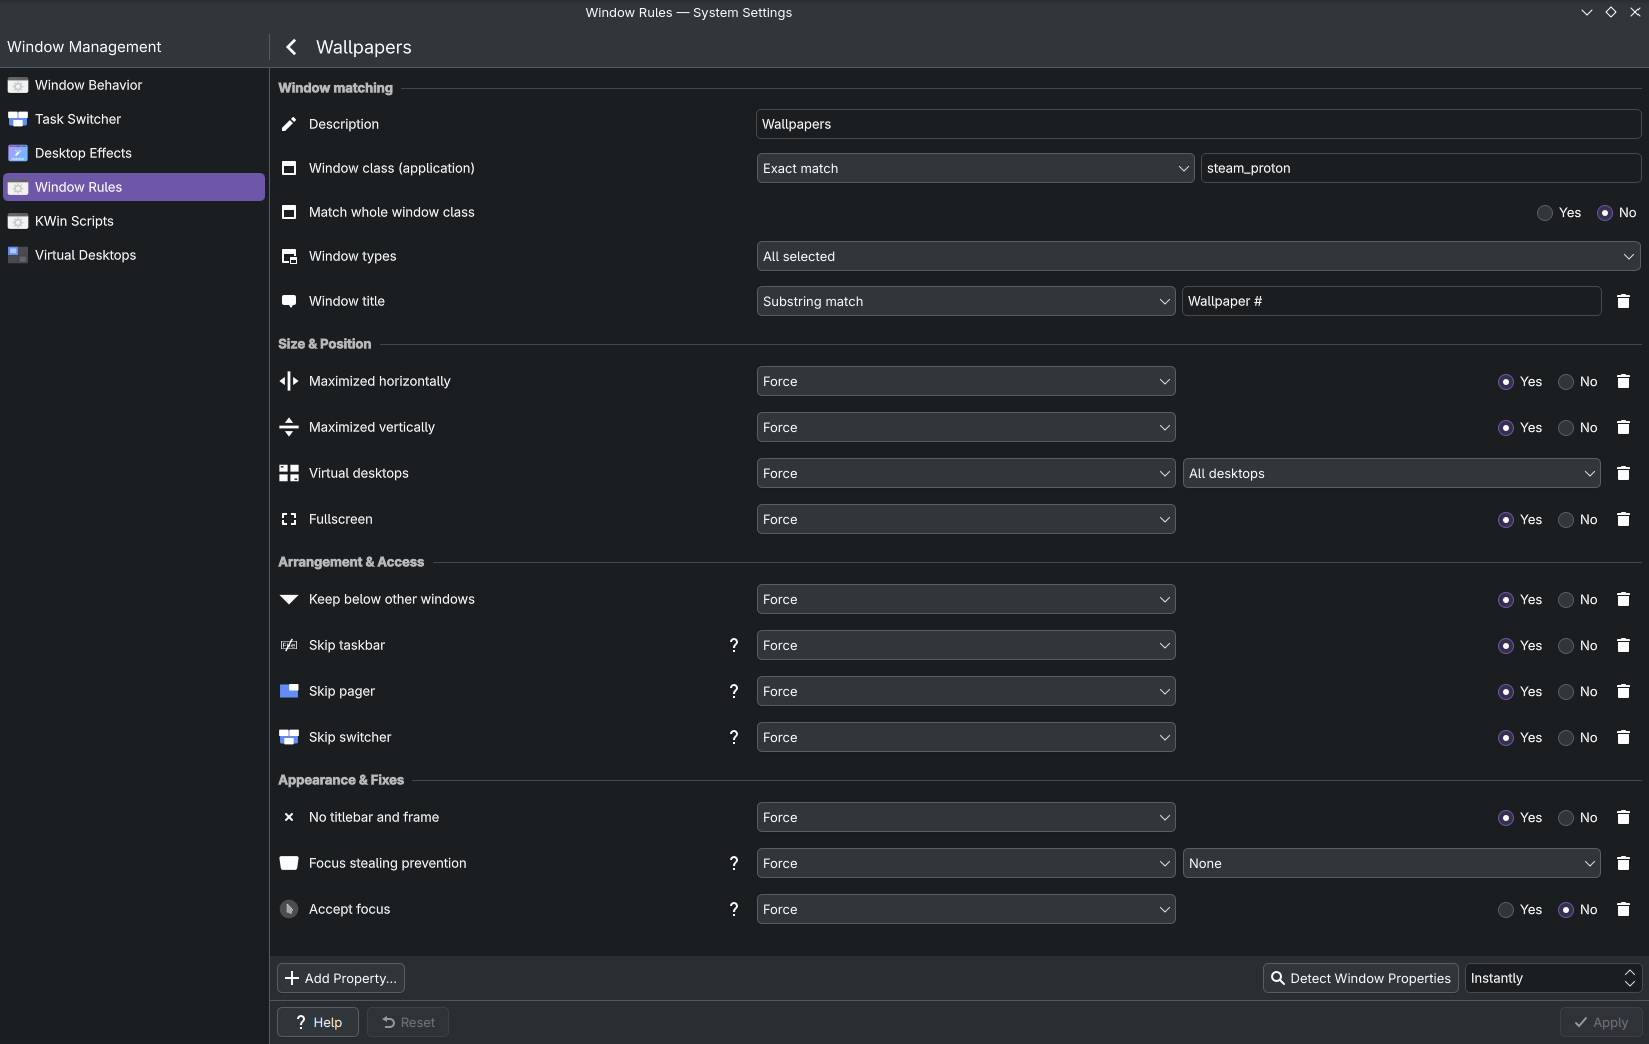
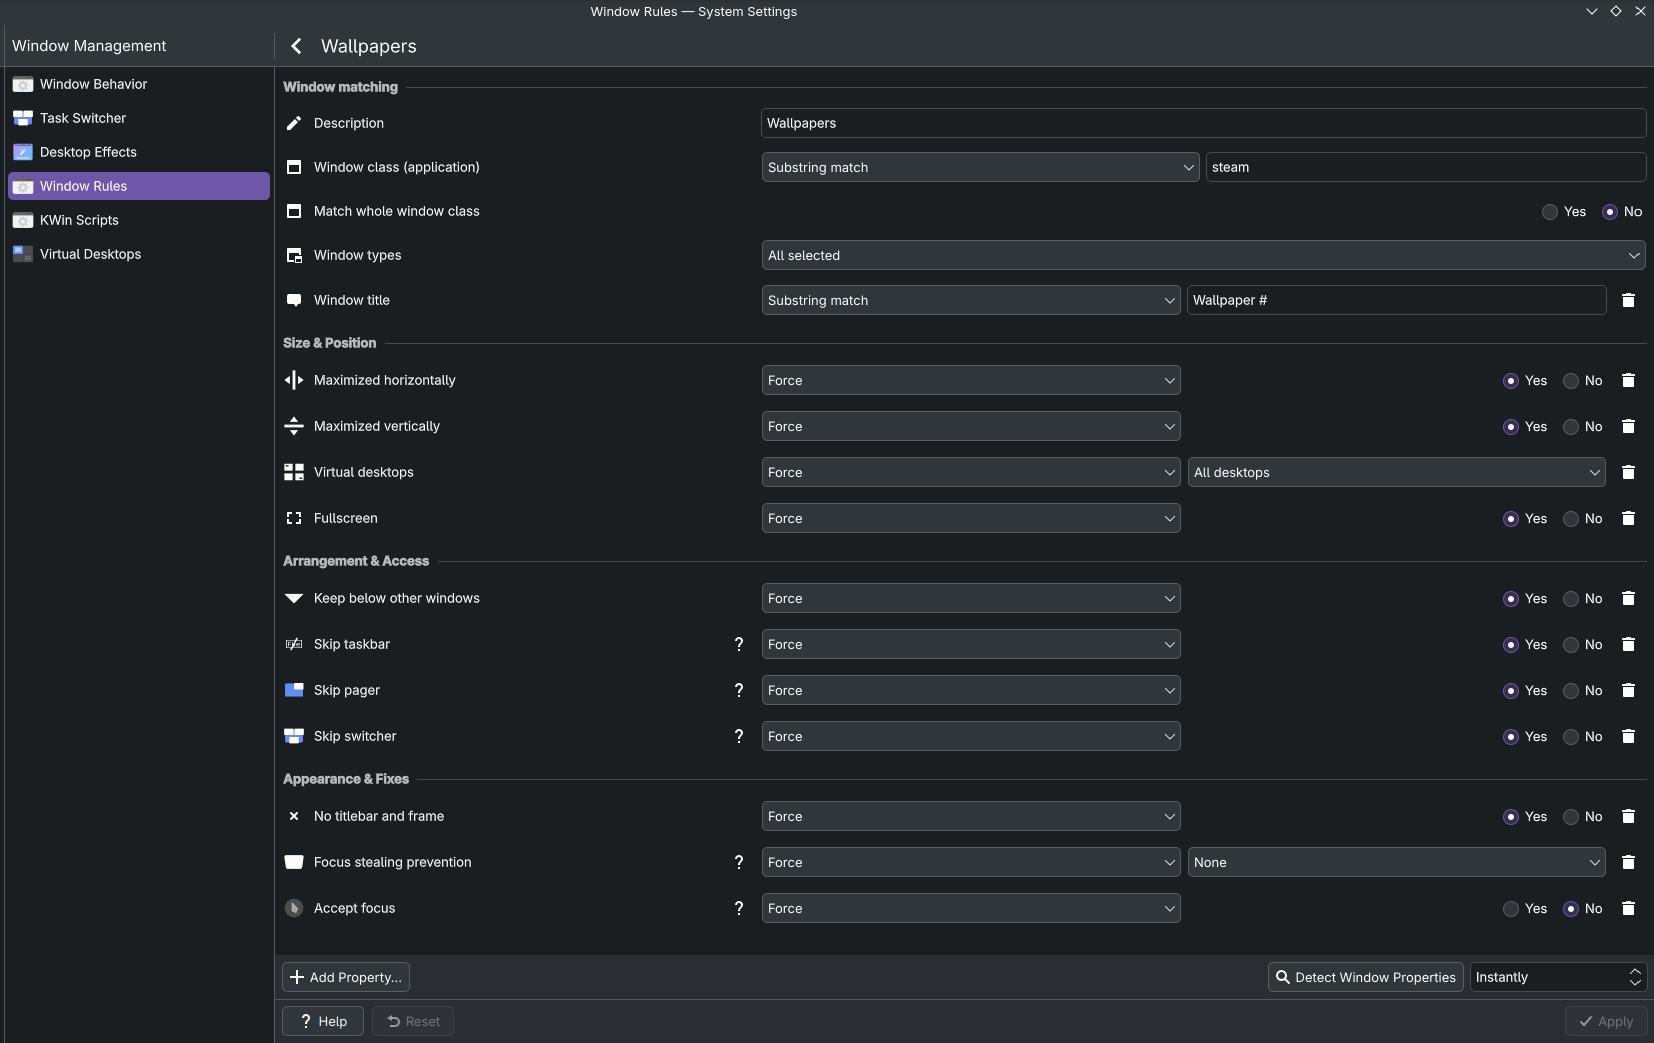
doc: update window rules

diff --git a/README.md b/README.md
@@ -40,7 +40,7 @@ Each one is named `Wallpaper #N` where `N` is the index of the monitor it's mean
 
 Set the windows to display behind, not activate, be borderless, skip taskbar, all virtual desktops, etc...
 
-On KDE I made one rule matching `class steam_proton` `title substring "Wallpaper #"` for setting the duplicate rules, then one for each `title substring "Wallpaper #N"` to set the monitor they should be on.
+On KDE I made one rule matching `class steam` `title substring "Wallpaper #"` for setting the duplicate rules, then one for each `title substring "Wallpaper #N"` to set the monitor they should be on.
 
 ![KDE window rules](./assets/kde.png)
 
